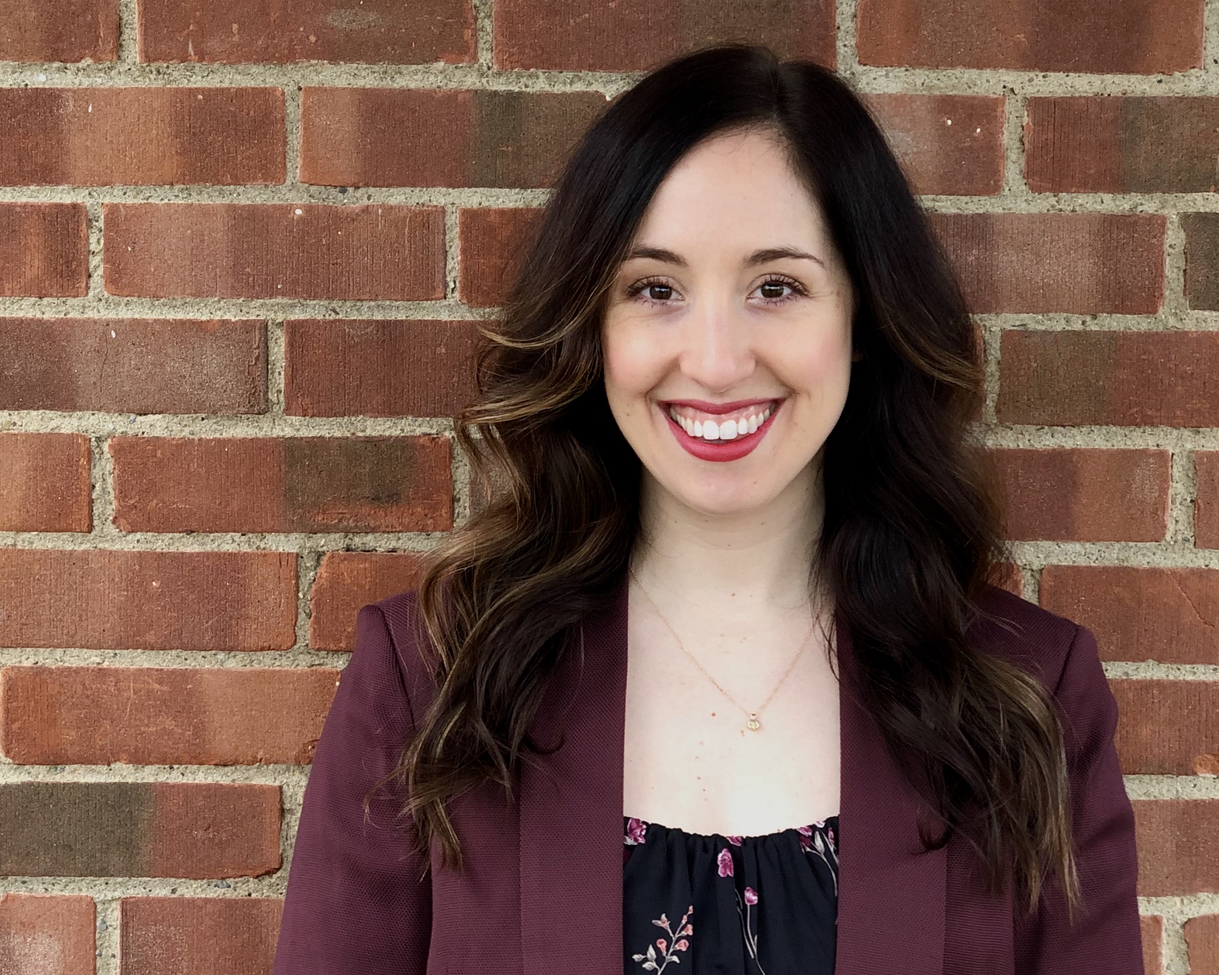
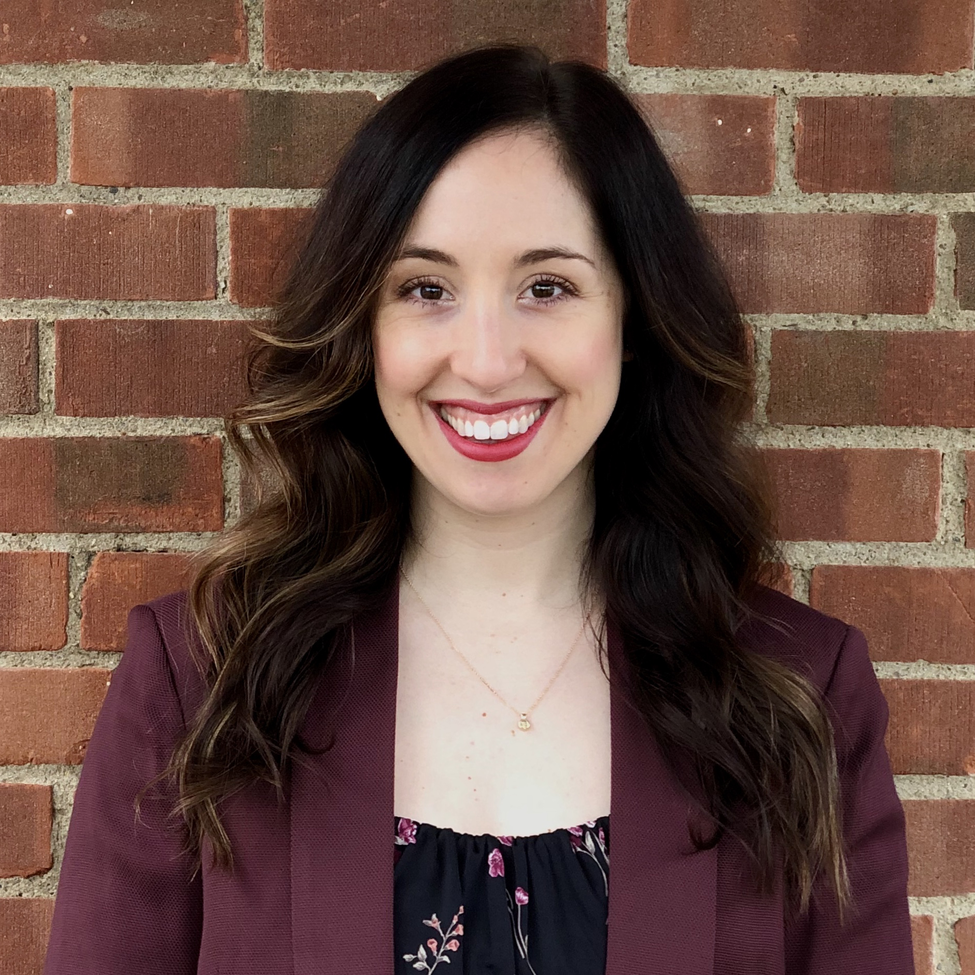
added arrows to scroll up and down, more color

diff --git a/index.html b/index.html
@@ -10,14 +10,15 @@
     <link rel="icon" href="assets/img/weffology-icon.png" type="image/x-icon" />
 
     <!-- TITLE -->
-    <title>Weffology | Web Design & Digital Media</title>
+    <title>Weffology</title>
 
     <!--FONTS-->
     <link href="https://fonts.googleapis.com/css?family=Josefin+Sans&display=swap" rel="stylesheet">
     <link href="https://fonts.googleapis.com/css?family=Mr+Dafoe&display=swap" rel="stylesheet">
 
-    <!-- ICON LIBRARY -->
+    <!-- ICON LIBRARIES -->
     <script src="https://kit.fontawesome.com/d5fa5f8504.js" crossorigin="anonymous"></script>
+    <link href="https://fonts.googleapis.com/icon?family=Material+Icons" rel="stylesheet">
 
     <!--JQUERY-->
     <script src="https://ajax.googleapis.com/ajax/libs/jquery/3.4.1/jquery.min.js"></script>
@@ -79,7 +80,7 @@
             <div class="intro-text">
                 <div class="intro-lead-in">Welcome!</div>
                 <div class="intro-heading text-uppercase">It's Nice To Meet You</div><br />
-                <a class="btn btn-secondary btn-xl text-uppercase js-scroll-trigger" href="#about">Who is Weff?</a>
+                <a href="#services"><img src="assets/img/arrows-down.png" alt="Arrows Down" id="masthead-arrows"></a>
             </div>
         </div>
     </header>
@@ -97,21 +98,21 @@
                 <div class="col-md-4">
                     <img src="assets/img/web-dev-icon.png" alt="Web Development" class="services-icons"
                         id="web-dev-icon" />
-                    <h4 class="service-heading">Web Development</h4>
+                    <a class="nav-link js-scroll-trigger" href="#portfolio"><h4 class="service-heading">Web Development</h4></a>
                     <p class="text-muted">Lorem ipsum dolor sit amet, consectetur adipisicing elit. Minima maxime quam
                         architecto quo inventore harum ex magni, dicta impedit.</p>
                 </div>
                 <div class="col-md-4">
                     <img src="assets/img/marketing-icon.png" alt="Web Development" class="services-icons"
                         id="marketing-icon" />
-                    <h4 class="service-heading">Marketing</h4>
+                        <a class="nav-link js-scroll-trigger" href="#portfolio"><h4 class="service-heading">Marketing</h4></a>
                     <p class="text-muted">Lorem ipsum dolor sit amet, consectetur adipisicing elit. Minima maxime quam
                         architecto quo inventore harum ex magni, dicta impedit.</p>
                 </div>
                 <div class="col-md-4">
                     <img src="assets/img/camera-icon.png" alt="Web Development" class="services-icons"
                         id="camera-icon" />
-                    <h4 class="service-heading">Media & Photography</h4>
+                        <a class="nav-link js-scroll-trigger" href="#portfolio"><h4 class="service-heading">Media & Photography</h4></a>
                     <p class="text-muted">Lorem ipsum dolor sit amet, consectetur adipisicing elit. Minima maxime quam
                         architecto
                         quo inventore harum ex magni, dicta impedit.</p>
@@ -126,92 +127,44 @@
             <div class="row">
                 <div class="col-lg-12 text-center">
                     <h2 class="section-heading text-uppercase">Portfolio</h2>
-                    <h3 class="section-subheading text-muted">Lorem ipsum dolor sit amet consectetur.</h3>
+                    <h3 class="section-subheading text-muted">Check out our latest projects.</h3>
                 </div>
             </div>
             <div class="row">
-                <div class="col-md-4 col-sm-6 portfolio-item">
-                    <a class="portfolio-link" data-toggle="modal" href="#portfolioModal1">
-                        <div class="portfolio-hover">
-                            <div class="portfolio-hover-content">
-                                <i class="fas fa-plus fa-3x"></i>
-                            </div>
-                        </div>
-                        <img class="img-fluid" src="img/portfolio/01-thumbnail.jpg" alt="">
+                <div class="col-md-3 portfolio-item">
+                    <a class="portfolio-link" href="https://vestahome.herokuapp.com/" target="_blank">
+                        <img class="portfolio-image" src="assets/img/portfolio/vesta-blue.png" alt="Vesta Graphic">
                     </a>
                     <div class="portfolio-caption">
-                        <h4>Threads</h4>
-                        <p class="text-muted">Illustration</p>
+                        <h4>Vesta Home Hub</h4>
+                        <p class="text-muted">The Vesta Home Management Hub is an online space where you can keep your family in order. Create a Home, give out "keys," and keep track of chores, pets, pantry items, and more.</p>
                     </div>
                 </div>
-                <div class="col-md-4 col-sm-6 portfolio-item">
-                    <a class="portfolio-link" data-toggle="modal" href="#portfolioModal2">
-                        <div class="portfolio-hover">
-                            <div class="portfolio-hover-content">
-                                <i class="fas fa-plus fa-3x"></i>
-                            </div>
-                        </div>
-                        <img class="img-fluid" src="img/portfolio/02-thumbnail.jpg" alt="">
+                <div class="col-md-3 portfolio-item">
+                    <a class="portfolio-link" href="https://fork-yourself.herokuapp.com/" target="_blank">
+                        <img class="portfolio-image" src="assets/img/portfolio/fork.png" alt="Fork Yourself Graphic">
                     </a>
                     <div class="portfolio-caption">
-                        <h4>Explore</h4>
-                        <p class="text-muted">Graphic Design</p>
+                        <h4>Fork Yourself</h4>
+                        <p class="text-muted">Fork Yourself is a web app for those who have no idea what to cook out of the items in their fridge. Search by ingredient(s), calories, and diets and get a list of recipes that work for you!</p>
                     </div>
                 </div>
-                <div class="col-md-4 col-sm-6 portfolio-item">
-                    <a class="portfolio-link" data-toggle="modal" href="#portfolioModal3">
-                        <div class="portfolio-hover">
-                            <div class="portfolio-hover-content">
-                                <i class="fas fa-plus fa-3x"></i>
-                            </div>
-                        </div>
-                        <img class="img-fluid" src="img/portfolio/03-thumbnail.jpg" alt="">
+                <div class="col-md-3 portfolio-item">
+                    <a class="portfolio-link" href="https://fork-yourself.herokuapp.com/" target="_blank">
+                        <img class="portfolio-image" src="assets/img/portfolio/fork.png" alt="Fork Yourself Graphic">
                     </a>
                     <div class="portfolio-caption">
-                        <h4>Finish</h4>
-                        <p class="text-muted">Identity</p>
+                        <h4>Fork Yourself</h4>
+                        <p class="text-muted">Fork Yourself is a web app for those who have no idea what to cook out of the items in their fridge. Search by ingredient(s), calories, and diets and get a list of recipes that work for you!</p>
                     </div>
                 </div>
-                <div class="col-md-4 col-sm-6 portfolio-item">
-                    <a class="portfolio-link" data-toggle="modal" href="#portfolioModal4">
-                        <div class="portfolio-hover">
-                            <div class="portfolio-hover-content">
-                                <i class="fas fa-plus fa-3x"></i>
-                            </div>
-                        </div>
-                        <img class="img-fluid" src="img/portfolio/04-thumbnail.jpg" alt="">
+                <div class="col-md-3 portfolio-item">
+                    <a class="portfolio-link" href="https://fork-yourself.herokuapp.com/" target="_blank">
+                        <img class="portfolio-image" src="assets/img/portfolio/fork.png" alt="Fork Yourself Graphic">
                     </a>
                     <div class="portfolio-caption">
-                        <h4>Lines</h4>
-                        <p class="text-muted">Branding</p>
-                    </div>
-                </div>
-                <div class="col-md-4 col-sm-6 portfolio-item">
-                    <a class="portfolio-link" data-toggle="modal" href="#portfolioModal5">
-                        <div class="portfolio-hover">
-                            <div class="portfolio-hover-content">
-                                <i class="fas fa-plus fa-3x"></i>
-                            </div>
-                        </div>
-                        <img class="img-fluid" src="img/portfolio/05-thumbnail.jpg" alt="">
-                    </a>
-                    <div class="portfolio-caption">
-                        <h4>Southwest</h4>
-                        <p class="text-muted">Website Design</p>
-                    </div>
-                </div>
-                <div class="col-md-4 col-sm-6 portfolio-item">
-                    <a class="portfolio-link" data-toggle="modal" href="#portfolioModal6">
-                        <div class="portfolio-hover">
-                            <div class="portfolio-hover-content">
-                                <i class="fas fa-plus fa-3x"></i>
-                            </div>
-                        </div>
-                        <img class="img-fluid" src="img/portfolio/06-thumbnail.jpg" alt="">
-                    </a>
-                    <div class="portfolio-caption">
-                        <h4>Window</h4>
-                        <p class="text-muted">Photography</p>
+                        <h4>Fork Yourself</h4>
+                        <p class="text-muted">Fork Yourself is a web app for those who have no idea what to cook out of the items in their fridge. Search by ingredient(s), calories, and diets and get a list of recipes that work for you!</p>
                     </div>
                 </div>
             </div>
@@ -224,23 +177,98 @@
             <div class="row">
                 <div class="col-lg-12 text-center">
                     <h2 class="section-heading text-uppercase">About</h2>
-                    <h3 class="section-subheading text-muted">Lorem ipsum dolor sit amet consectetur.</h3>
+                    <h3 class="section-subheading text-muted">What the heck is Weffology?</h3>
                 </div>
             </div>
             <div class="row">
-                <div class="col-lg-9">
+                <div class="col-md-4">
+                    <p>Weffology was founded in 2020 by Stephanie Rose.</p>
+                </div>
+                <div class="col-md-4">
                     <p>Lorem ipsum dolor sit amet consectetur. Lorem ipsum dolor sit amet consectetur. Lorem ipsum dolor
                         sit amet consectetur. Lorem ipsum dolor sit amet consectetur. Lorem ipsum dolor sit amet
                         consectetur. Lorem ipsum dolor sit amet consectetur. Lorem ipsum dolor sit amet consectetur.
                         Lorem ipsum dolor sit amet consectetur.</p>
                 </div>
-                <div class="col-lg-3">
-                    <img src="assets/img/stephanie-rose-headshot.jpg" alt="Stephanie Rose Headshot" id="headshot" />
+                <div class="col-md-4">
+                    <img src="assets/img/headshot.jpg" alt="Stephanie Rose Headshot" id="headshot" />
                 </div>
             </div>
         </div>
     </section>
 
+    <!-- CONTACT -->
+    <section class="bg-light page-section" id="contact">
+        <section class="mb-4">
+            <h2 class="h1-responsive font-weight-bold text-center my-4">Contact us</h2>
+            <p class="text-center w-responsive mx-auto mb-5">Do you have any questions? Please do not hesitate to
+                contact us directly. Our team will come back to you within
+                a matter of hours to help you.</p>
+            <div class="row">
+                <div class="col-md-9 mb-md-0 mb-5">
+                    <form id="contact-form" name="contact-form" action="mail.php" method="POST">
+                        <div class="row">
+                            <div class="col-md-6">
+                                <div class="md-form mb-0">
+                                    <input type="text" id="name" name="name" class="form-control">
+                                    <label for="name" class="">Name</label>
+                                </div>
+                            </div>
+                            <div class="col-md-6">
+                                <div class="md-form mb-0">
+                                    <input type="text" id="email" name="email" class="form-control">
+                                    <label for="email" class="">Email</label>
+                                </div>
+                            </div>
+                        </div>
+                        <div class="row">
+                            <div class="col-md-12">
+                                <div class="md-form mb-0">
+                                    <input type="text" id="subject" name="subject" class="form-control">
+                                    <label for="subject" class="">Subject</label>
+                                </div>
+                            </div>
+                        </div>
+                        <div class="row">
+                            <div class="col-md-12">
+
+                                <div class="md-form">
+                                    <textarea type="text" id="message" name="message" rows="2"
+                                        class="form-control md-textarea"></textarea>
+                                    <label for="message">Message</label>
+                                </div>
+
+                            </div>
+                        </div>
+                    </form>
+                    <div class="text-center text-md-left">
+                        <a class="btn btn-primary" onclick="document.getElementById('contact-form').submit();">Send</a>
+                    </div>
+                    <div class="status"></div>
+                </div>
+                <div class="col-md-3 text-center">
+                    <ul class="list-unstyled mb-0">
+                        <li><i class="fas fa-map-marker-alt fa-2x"></i>
+                            <p>Cleveland, OH 44107, USA</p>
+                        </li>
+
+                        <li><i class="fas fa-phone mt-4 fa-2x"></i>
+                            <p>330-265-4374</p>
+                        </li>
+
+                        <li><i class="fas fa-envelope mt-4 fa-2x"></i>
+                            <p>hello@weffology.com</p>
+                        </li>
+                    </ul>
+                </div>
+            </div>
+
+        </section>
+    </section>
+
+    <button id="buttonTop" class="hideButton">
+        <i class="material-icons">arrow_upward</i>
+    </button>
 </body>
 
 </html>

diff --git a/assets/js/app.js b/assets/js/app.js
@@ -2,22 +2,34 @@ $(document).ready(function () {
 
   $(window).scroll(scrollFunction);
   function scrollFunction() {
-    if ($(document).scrollTop() > 400) {
+    if ($(document).scrollTop() > 700) {
       $("nav").addClass("navScroll");
       $("nav a").addClass("navScroll");
       $("nav").removeClass("navbar-light");
       $("nav").removeClass("navStart");
       $("nav").addClass("navbar-dark");
+      // $("#buttonTop").removeClass("hideButton");
       $("#mainLogo").attr("src", "assets/img/weffology-logo-white.png");
-    } else if ($(document).scrollTop() < 400) {
+    } else if ($(document).scrollTop() < 700) {
       $("nav").removeClass("navScroll");
       $("nav a").removeClass("navScroll");
       $("nav").removeClass("navbar-dark");
       $("nav").addClass("navbar-light");
       $("nav").addClass("navStart");
+      // $("#buttonTop").addClass("hideButton");
       $("#mainLogo").attr("src", "assets/img/weffology-logo.png");
     }
   };
+
+  $(window).scroll(buttonAppear);
+  function buttonAppear() {
+    if ($(document).scrollTop() > 100) {
+      $("#buttonTop").removeClass("hideButton");
+    } else if ($(document).scrollTop() < 100) {
+      $("#buttonTop").addClass("hideButton");
+    }
+  };
+
 
   $("#web-dev-icon").hover(hoverInWeb, hoverOutWeb);
   function hoverInWeb() {
@@ -42,5 +54,9 @@ $(document).ready(function () {
   function hoverOutCamera() {
     $(this).attr("src", "assets/img/camera-icon.png");
   };
+
+  $("#buttonTop").click(function() {
+    window.scrollTo(0,0);
+  });
 
 });

diff --git a/assets/css/style.css b/assets/css/style.css
@@ -32,25 +32,30 @@ nav.button {
 header.masthead {
     text-align: center;
     color: black;
-    background-image: url("../img/header-desk-1.jpg");
+    background-image: url("../img/header-desk-rainbow.jpg");
     background-repeat: no-repeat;
     background-attachment: scroll;
     background-position: center top;
     background-size: cover;
     font-family: 'Josefin Sans', sans-serif;
+    height: 725px;
   }
 
   header.masthead .intro-text {
-    padding-top: 100px;
-    padding-bottom: 100px;
+    padding-top: 225px;
+    padding-bottom: 250px;
   }
 
   header.masthead .intro-lead-in {
-    font-size: 80px;
+    font-size: 100px;
   }
   
   header.masthead .intro-heading {
     font-size: 30px;
+  }
+
+  #masthead-arrows {
+    width: 20%;
   }
 
   section {
@@ -68,9 +73,38 @@ header.masthead {
   }
 
   .services-icons {
-      width: 30%;
+      width: 60%;
   }
 
+  #portfolio {
+    text-align: center;
+  }
+
+  #portfolio h4 {
+    padding-top: 20px;
+  }
+
+  .portfolio-image {
+    width: 80%;
+  }
+  
   #headshot {
       width: 100%;
+      border-radius: 50%;
+  }
+
+  #buttonTop {
+    position: fixed;
+    right: 10px;
+    bottom: 10px;
+    width: 50px;
+    height: 50px;
+    border-radius: 50%;
+    background-image: url("../img/rainbow-gradient.jpeg");
+    background-repeat: no-repeat;    
+    color: white;
+  }
+
+  .hideButton {
+    display: none;
   }
